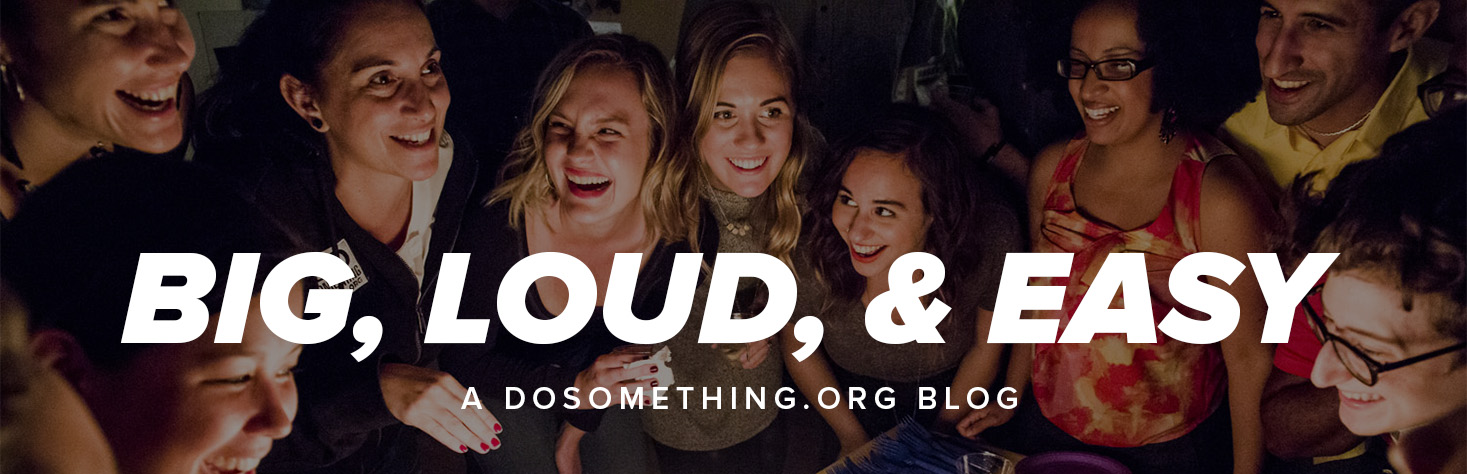
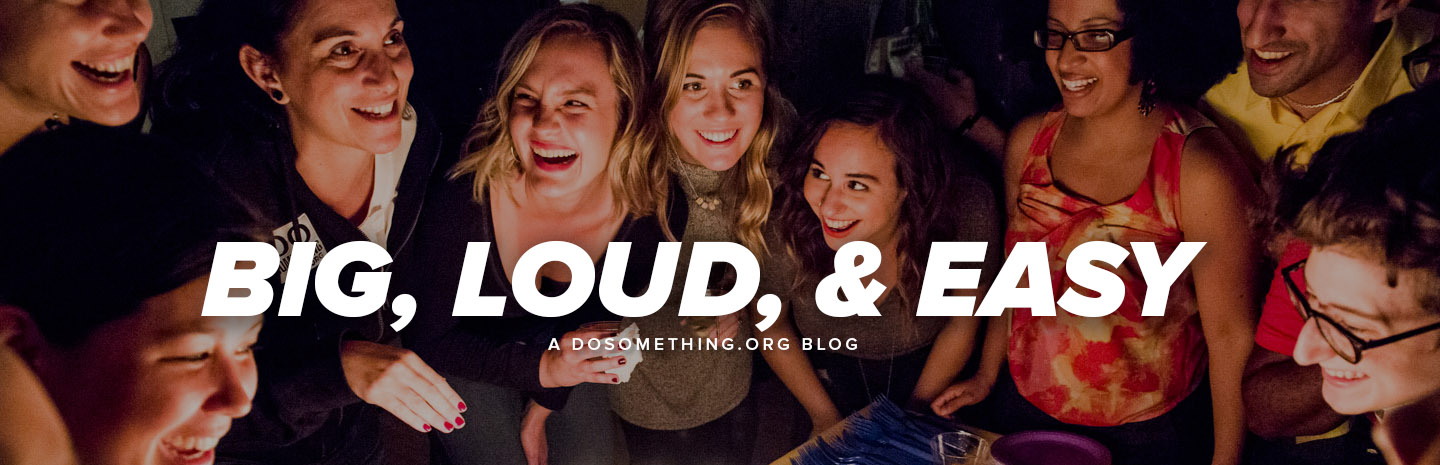
made home hero default for all

diff --git a/wp-content/themes/dosomething-blog/scss/content/category/_member-stories.scss b/wp-content/themes/dosomething-blog/scss/content/category/_member-stories.scss
@@ -1,12 +1,4 @@
 .category-member-stories {
-  .-hero[role="banner"] {
-    background-image: url("../images/category/header_member_stories_mobile.jpg");
-
-    @include media($tablet) {
-      background-image: url("../images/category/header_member_stories.jpg");
-    }
-  }
-
   .mk-blog-modern-item {
     &.image-post-type {
       .featured-image,

diff --git a/wp-content/themes/dosomething-blog/scss/app.scss b/wp-content/themes/dosomething-blog/scss/app.scss
@@ -19,10 +19,5 @@ $asset-path: "";
 @import "content/post";
 @import "content/author";
 
-// Homepage
-@import "content/home";
-
 // Categories
 @import "content/category/member-stories";
-@import "content/category/our-expertise";
-@import "content/category/press";

diff --git a/wp-content/themes/dosomething-blog/scss/overrides/_chrome.scss b/wp-content/themes/dosomething-blog/scss/overrides/_chrome.scss
@@ -52,6 +52,10 @@
 
 .-hero[role="banner"] {
   height: 310px;
+
+  @include media($tablet) {
+    background-image: url("../images/category/header_home.jpg");
+  }
 }
 
 .category {
